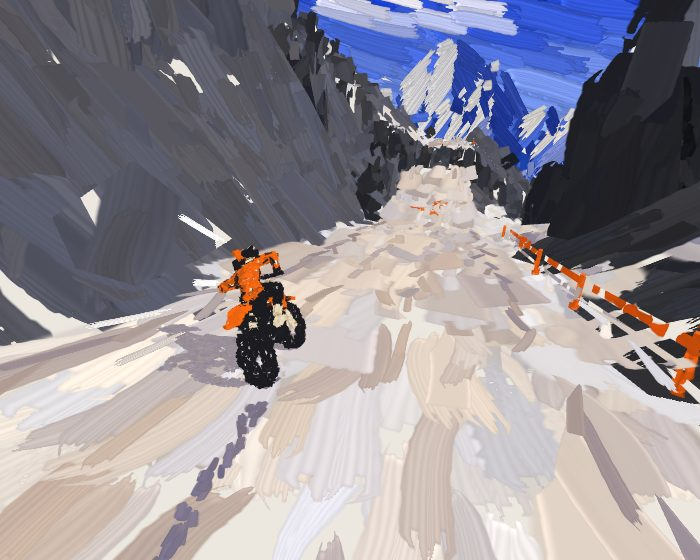
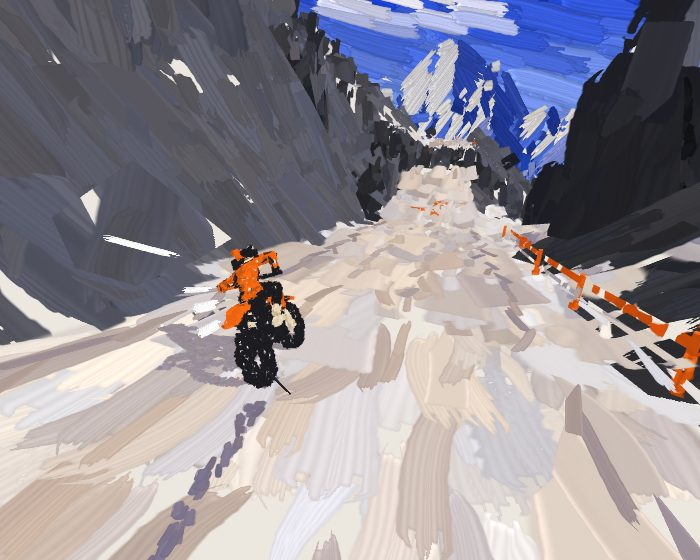
lab/switchback: waterfalls in layered flowing strokes; at= flag
Claude-Session: https://claude.ai/code/session_01XxjdrEubiC3ZZ3ppUeUc93

diff --git a/cells/lab/client/switchback/paint.ts b/cells/lab/client/switchback/paint.ts
@@ -19,7 +19,7 @@
  * is, its green the paint's relief (the ridges catch the light), its blue which of the stroke's two colours.
  */
 import type { Course } from './course';
-import { M, rangeProfiles, foothillProfiles, riverLine } from './mesh';
+import { M, rangeProfiles, foothillProfiles, riverLine, fallPaths } from './mesh';
 import { ground } from './ground';
 import { lines, plain, trackY } from './ruts';
 
@@ -448,6 +448,56 @@ export function valleyStrokes(seed: number): Float32Array {
   return new Float32Array(out);
 }
 
+/** A waterfall in strokes, not a ribbon: several sheets one in front of another (the back one in shadow, lilac-grey, the
+ * front ones white, a few pale blue), each a run of streaks sliding down its arc with the water, each streak drawn out
+ * by how fast the water's falling where it is (short at the lip, long below), growing as it comes over the lip and
+ * shrinking away as it lands; at the lip a few strokes across, the glassy edge; at its foot spray, dabs thrown up and
+ * out, growing as they rise and fading. Built each frame, every streak keeping its own place in the flow, so it moves
+ * with the water rather than flickering. */
+export function fallStrokes(c: Course, s0: number, s1: number, t: number): Float32Array {
+  const out: number[] = [];
+  const put = (p: number[], T: number[], L: number, n: number[], W: number, seed: number, stamp: number, mt: number, band: number) => {
+    if (L <= 0.02 || W <= 0.01) return;
+    out.push(p[0], p[1], p[2], mt + 0.5, T[0], T[1], T[2], L, n[0], n[1], n[2], W, seed, stamp, 0, 3, NEVER, 10 + band, 1, 0);
+  };
+  const norm = (v: number[]) => { const l = Math.hypot(v[0], v[1], v[2]) || 1; return [v[0] / l, v[1] / l, v[2] / l]; };
+  for (const f of fallPaths(c, s0, s1)) {
+    const R = rng(f.i * 7919 + 13);
+    // (the sheets, back to front: how far out from the wall, how many streaks, their colour)
+    const sheets = [
+      { out: 0, n: 110, mt: M.RUT, bands: [1, 2], w: 1.0 },
+      { out: 0.25, n: 90, mt: M.WHITE, bands: [2, 1], w: 0.75 },
+      { out: 0.5, n: 70, mt: M.WHITE, bands: [0, 1], w: 0.55 },
+      { out: 0.75, n: 26, mt: M.FARSNOW, bands: [1, 0], w: 0.4 },
+    ];
+    for (const sh of sheets) for (let k = 0; k < sh.n; k++) {
+      const phase = R(), rate = (0.7 + R() * 0.5) / f.T, side = (R() * 2 - 1) * (sh.out === 0 ? 1.02 : 0.95), seed = R(), stamp = [0, 1, 7, 11][Math.floor(R() * 4)], band = sh.bands[R() < 0.65 ? 0 : 1];
+      const u = (phase + t * rate) % 1, tau = u * f.T;
+      const p = f.P(tau, side, sh.out), q = f.P(Math.min(f.T, tau + 0.04), side, sh.out);
+      const T = norm([q[0] - p[0], q[1] - p[1], q[2] - p[2]]);
+      // (the sheet's face: across it (along the road) and down it; its normal out toward the road)
+      const a = f.P(tau, side + 0.05, sh.out), A = norm([a[0] - p[0], a[1] - p[1], a[2] - p[2]]);
+      const n = norm([A[1] * T[2] - A[2] * T[1], A[2] * T[0] - A[0] * T[2], A[0] * T[1] - A[1] * T[0]]);
+      const v = 9.8 * tau, env = Math.min(1, u * 7) * Math.min(1, (1 - u) * 9);
+      put(p, T, (1.3 + 0.28 * v) * env * (0.8 + R() * 0.4), n, sh.w * (0.8 + R() * 0.4) * (0.7 + 0.3 * env), seed, stamp, sh.mt, band);
+    }
+    // (the lip: a few strokes across it, glassy)
+    for (let k = 0; k < 6; k++) {
+      const side = -0.9 + (1.8 * (k + R() * 0.5)) / 6, p = f.P(0.03, side, 0.4), a = f.P(0.03, side + 0.3, 0.4);
+      put(p, norm([a[0] - p[0], a[1] - p[1], a[2] - p[2]]), 1.4, [0, 0, 1], 0.28, R(), 0, M.WHITE, k % 3 === 0 ? 1 : 0);
+    }
+    // (spray at its foot: dabs thrown up and out, growing as they rise, fading as they go)
+    for (let k = 0; k < 26; k++) {
+      const ph = R(), life = 1.3 + R() * 0.9, u = ((t + ph * life) % life) / life, side = (R() * 2 - 1) * 1.2, ang = R() * Math.PI * 2;
+      const base = f.P(f.T, side, 0.3), r = (0.6 + R() * 2.2) * u;
+      const p = [base[0] + Math.cos(ang) * r, f.footY + 0.4 + (1.2 + R() * 2.5) * Math.sin(Math.PI * u * 0.8), base[2] + Math.sin(ang) * r];
+      const sz = (0.5 + R() * 0.7) * (0.4 + u) * (1 - u * u);
+      put(p, norm([Math.cos(ang), 0.6, Math.sin(ang)]), sz * 1.4, [0, 1, 0], sz, R(), [2, 3, 4, 3][Math.floor(R() * 4)], M.WHITE, R() < 0.7 ? 0 : 1);
+    }
+  }
+  return new Float32Array(out);
+}
+
 /** The sky's strokes: level marks round the eye from the horizon up past the top, close enough to cover it, darkening as
  * they rise, a few paler. */
 export function skyStrokes(seed: number): Float32Array {
@@ -552,6 +602,8 @@ void main(){
   // in front, so a peak shows a lit face and a shaded one whichever way you look, as the study has it)
   vec3 rr = normalize(vec3(w.x - uEye.x, 0., w.z - uEye.z)), Lf = normalize(vec3(rr.z, 0., -rr.x)*.75 + vec3(0., .55, 0.) - rr*.3);
   int code = int(a4.y + .5) - 1;
+  // (a stroke given its colour outright, near: the waterfall's)
+  if (!far && a4.y > 9.5) { b = int(a4.y + .5) - 10; b2 = h(seed, 3.1) > .8 ? clamp(b + 1, 0, 3) : b; }
   if (far && code >= 0 && code < 4) { b = code; b2 = h(seed, 3.1) > .78 ? clamp(b + (b < 2 ? 1 : -1), 0, 3) : b; }
   else if (far) { bool lit = dot(n, Lf) > .3; float r = h(seed, 3.1); b = lit ? (r > .5 ? 0 : 1) : 3; b2 = lit ? (r > .75 ? 2 : 1) : (r > .7 ? 2 : 3); }
   vec3 A = uPal[mt*4 + b], B = mix(A, uPal[mt*4 + b2], far ? .35 : .45);

diff --git a/cells/lab/client/switchback/mesh.ts b/cells/lab/client/switchback/mesh.ts
@@ -206,24 +206,34 @@ function cutPoint(c: Course, i: number, k: number, cut = true) {
 /** the waterfalls near the rider, built each frame so their water moves: where a gorge has one, at its middle, from a lip
  * partway up the wall's gully the water is thrown clear of the rock and falls in an arc to the gorge's floor, widening as
  * it goes, bands of it sliding down; spray tumbling at its foot */
-export function buildFalls(c: Course, s0: number, s1: number, t: number) {
-  const m = new Mesh(true, true);
+/** the waterfalls between stations s0 and s1: each its station, its fall's time T (s), the point on its sheet at a time
+ * tau into the fall and a place across it (side, -1 to 1; `out` metres further out from the wall), and its foot */
+export function fallPaths(c: Course, s0: number, s1: number) {
+  const out: { i: number; T: number; P: (tau: number, side: number, outM?: number) => number[]; footY: number; fu: number; lipS: number }[] = [];
   for (let i = Math.max(1, Math.floor(s0)); i < s1; i++) {
     const st = c.at(i), nx = c.at(i + 1);
     if (st.feature !== 'gap' || !st.fall || (st.gapT ?? 1) > 0.5 || (nx.feature === 'gap' && (nx.gapT ?? 1) <= 0.5)) continue;
     // (the lip at the gorge's rim on the wall side, where the stream comes off the mountain's face; below it the gorge has
     // been cut away, so the water falls clear)
     const lip = cutPoint(c, i, WALL.length - 3, false), foot = cutPoint(c, i, WALL.length), drop = Math.max(4, lip.y - foot.y);
-    const T = Math.sqrt(drop / 4.9), N = 14, P = (tau: number, side: number) => {
-      const a = (2.2 + tau * 1.1) * side, u = lip.u + 0.9 + 3.4 * tau, p = c.point(lip.s + a, u);
+    const T = Math.sqrt(drop / 4.9), P = (tau: number, side: number, outM = 0) => {
+      const a = (2.2 + tau * 1.1) * side, u = lip.u + 0.9 + 3.4 * tau + outM, p = c.point(lip.s + a, u);
       return [p.x, lip.y + 0.4 - 4.9 * tau * tau, p.z];
     };
+    out.push({ i, T, P, footY: foot.y, fu: lip.u + 0.9 + 3.4 * T, lipS: lip.s });
+  }
+  return out;
+}
+export function buildFalls(c: Course, s0: number, s1: number, t: number) {
+  const m = new Mesh(true, true);
+  for (const { i, T, P, footY, fu: fu0, lipS } of fallPaths(c, s0, s1)) {
+    const N = 14, foot = { y: footY }, lip = { s: lipS };
     for (let n = 0; n < N; n++) {
       const t0 = (n / N) * T, t1 = ((n + 1) / N) * T, ph = (((t0 + t1) / 2) * 2.4 - t * 1.7) % 1, band = (ph + 1) % 1 < 0.28;
       m.quad(P(t0, -1), P(t0, 1), P(t1, 1), P(t1, -1), band ? M.SNOW : M.WHITE);
     }
     // (spray: a few white shards tumbling where it lands)
-    const fu = lip.u + 0.9 + 3.4 * T;
+    const fu = fu0;
     for (let j = 0; j < 9; j++) {
       const a = t * (2 + hash(i, j) * 3) + j, r = 1.2 + 2.2 * hash(i, j, 2), q = c.point(lip.s + Math.cos(a + j) * r, fu + Math.sin(a * 0.7 + j) * r * 0.6);
       const y = foot.y + 0.6 + ((t * 1.3 + hash(i, j, 3)) % 1) * 3.5, sz = 0.5 + hash(i, j, 4) * 0.6;

diff --git a/cells/lab/client/switchback/render.ts b/cells/lab/client/switchback/render.ts
@@ -17,7 +17,7 @@ import type { Rider, Event } from './sim';
 import { GEARS } from './audio';
 import { buildRuts, Trail } from './ruts';
 import { buildGouges } from './gouge';
-import { Painter, Strokes, Brush2D, strokesOver, skyStrokes, lineOf, courseStrokes, rangeStrokes, foothillStrokes, valleyStrokes } from './paint';
+import { Painter, Strokes, Brush2D, strokesOver, skyStrokes, lineOf, courseStrokes, rangeStrokes, foothillStrokes, valleyStrokes, fallStrokes } from './paint';
 
 const VS = `#version 300 es
 in vec4 aP; uniform mat4 uVP; uniform vec3 uOff; uniform float uZj; out vec3 vW; flat out int vM;
@@ -234,7 +234,7 @@ export class Renderer {
       // (the ruts, the track, the flags and the falls are windows sliding along the way: their strokes seeded by place)
       // (not the gouges: they're cut to the eye, finer near it and broader away, so their faces change as you ride and
       // strokes on them couldn't hold still; the road's own strokes run along it instead)
-      const parts = [new Float32Array(0), strokesOver(trackV, 13, null, 4000, true, 0.1, true), shadowOn ? strokesOver(sh, 17, null, 4000, true, 0, true) : new Float32Array(0),  strokesOver(flagsV, 19, null, 6000, true, 1.5), strokesOver(fallsV, 23, null, 6000, true, 2), strokesOver(body, 29, null, 9000, true)];
+      const parts = [new Float32Array(0), strokesOver(trackV, 13, null, 4000, true, 0.1, true), shadowOn ? strokesOver(sh, 17, null, 4000, true, 0, true) : new Float32Array(0),  strokesOver(flagsV, 19, null, 6000, true, 1.5), fallStrokes(this.course, r.s - 30, r.s + 420, t), strokesOver(body, 29, null, 9000, true)];
       const all = new Float32Array(parts.reduce((a, p) => a + p.length, 0)); let at = 0;
       for (const p of parts) { all.set(p, at); at += p.length; }
       if (!this.moving) this.moving = pt.make(all, true); else this.moving.set(all);

diff --git a/cells/lab/client/switchback/sim.ts b/cells/lab/client/switchback/sim.ts
@@ -93,6 +93,8 @@ export class Rider {
   /** the ground's own vertical pace under you last step (NaN: just come down, nothing to compare yet) */
   private vyGround = NaN; private headingWas = 0;
   constructor(readonly course: Course) { this.place(); }
+  /** put on the line at station s, riding (`at=`, for looking at a place) */
+  putAt(s: number) { this.s = s; this.u = 0; this.psi = 0; this.v = 20; this.air = false; this.vy = 0; this.place(); this.sPrev = s; this.headingWas = this.travel; this.wheels(); }
   private place() { const p = this.course.point(this.s, this.u); this.x = p.x; this.y = p.y; this.z = p.z; this.heading = this.travel = p.heading - this.psi; this.slip = 0; }
   private ev(kind: Event['kind'], k: number) { this.events.push({ kind, x: this.x, y: this.y, z: this.z, k }); if (this.events.length > 64) this.events.shift(); }
 

diff --git a/cells/lab/client/switchback/main.ts b/cells/lab/client/switchback/main.ts
@@ -136,6 +136,7 @@ function hint() { if (!hinted) { hinted = true; hintEl.classList.add('gone'); } 
 
 // (start down the hill if asked, ridden by the sim's rider)
 const T0 = Number(q.get('t') ?? 0);
+if (q.has('at')) { rider.putAt(Number(q.get("at")) || 0); }
 for (let t = 0; t < T0; t += 1 / 120) { rider.step(1 / 120, autoInput()); rd.trail.add(rider); }
 rider.events.length = 0;
 

diff --git a/cells/lab/static/switchback.md b/cells/lab/static/switchback.md
@@ -119,6 +119,7 @@ An experiment in drawing the mountain as paint, after looking closely at a brush
 - **Nothing pops.** A stroke whose turn to be thinned out with distance comes shrinks away rather than going at once. What's built afresh each frame keeps its strokes: the rider by its faces, the flags and the falls by where they are; the gouges aren't painted (they're cut to the eye, so their faces change as you ride), the road's own strokes running along it instead.
 - **The speed in the marks, near the eye.** Within about 14 m of the eye (gone by 30 m), at pace every stroke turns, on its own face, toward the way the eye is going and draws out by as far as the eye goes in a moment (the eye's smoothed motion in the world: one way for every stroke, so they hold steady), so the ground and the rock just round you fall into line and stream past; further off the subject alone lays each stroke (`stretch=0` none, `stretch=2` twice). Your track and the rider's shadow are laid flat, as the ground is. The shadow lies on the road ahead and behind where it falls, not on a level plane at the rider's feet (which a slope going away left standing in the air).
 - **Strokes the course calls for.** Laid deliberately from the course, not scattered over faces, each lying on the surface (its normal the surface's own there): the road's two edges in long strokes following it, the drop's lip as a lit edge of snow, and the **ruts**, the worn lines down the road as `ruts.ts` has them, a step darker than the road (the gouges, cut to the eye each frame, can't be painted; these are the same lines, fixed to the course). No wall-foot shade: those strokes spiked out of the slope rather than lying on it. The rider's shadow is painted, flat on the road where it falls.
+- **Waterfalls.** Not a ribbon but strokes in several sheets, one in front of another: the back one lilac-grey and dense (the water in shadow, covering the fall), white over it, a few pale blue in front; each a run of streaks sliding down the fall's arc with the water, drawn out by how fast it's falling where it is (short at the lip, long below), growing as it comes over and shrinking as it lands; a few strokes across the lip, glassy; spray at the foot, dabs thrown up and out, growing and fading. Built each frame, every streak keeping its place in the flow, so it moves with the water rather than flickering. (`at=<station>` puts you on the line at a station, for looking at a place: seed 1 has falls at 621, 813, 1186, 1629.)
 - **The far off.** In layers that recede, each further one hazed toward the sky's pale horizon: a snow massif (its crest broken by sub-summits and notches all along, not a row of cones), a nearer snowy range, a range of blue hills, four arcs of forested hills nearer, taller and darker the nearer, overlapping so they stack up the middle distance (the valley opening between them), then the valley's floor and its forested foothills. Under each summit a spur runs down toward you, wandering, with a branch or two leaving it down and outward (a shoulder sends a shorter one); under the crest the nearest spur decides a stroke's plane: the side of it the stroke is on faces that way, lit on the left, shaded on the right, the strokes running down and away from it, so the mountain splits into chevrons at more than one scale, and snow runs down the spurs' crests below the snow line. A stroke turns down a spur's plane only where its head, wherever it lands, stays under the crest there, and a stroke along the crest stays within its segment (run on, it carried on up past the summit). Each plane is one colour, decided when it's planned (lit or in shade by its side, snow or not), with a neighbouring colour streaked in now and then, and its strokes long: calm planes, not a flicker of light and dark stroke by stroke. A forest is painted over its hill's lower slopes: a dense dark band, its top serrated with close-set treetops, rising and falling along the hill. Each layer is painted by its form, not its faces: its crest simplified to the segments that matter (a summit, a shoulder, a long saddle), each segment painted in rows under it, every stroke sized by its segment, so a long flat saddle is a few long level strokes, not hundreds of identical ones (they made a ruled band of hatching), and a steep flank many shorter ones along the ridge, turning down the fall lower down; the strokes along the crest cut the skyline clean. Snow in streaks along the ridges and down the gullies above the snow line, warm where it's lit. Lit as a painter lights the far off, not by the sun: from the left of the way you look, so a peak always shows a lit flank and one in shade (by the sun, half the peaks were backlit). Painted in order, not by depth: the sky everywhere, the layers farthest first over it, so their strokes run over the skyline as a brush does; the valley's floor by depth (fields in patches of ochre, lavender and blues, laid level round the eye, broader further off; the river a thin pale line along it); the foothills over that, a dark forest band along each one's foot, its top ragged with treetops. The sky deepens from a pale horizon to the top in long calm strokes on one slant, with a few clouds, each a cluster of pale strokes lit above and shaded under. `bg=yaw,pitch,fov` shows the backdrop alone.
 - **The speed layer too.** Its shards, the smears off the posts, the air off the rider and the debris are laid with the same stamps, tinted: a wedge becomes a long stroke tapering the same way, a chip a dab.
 
